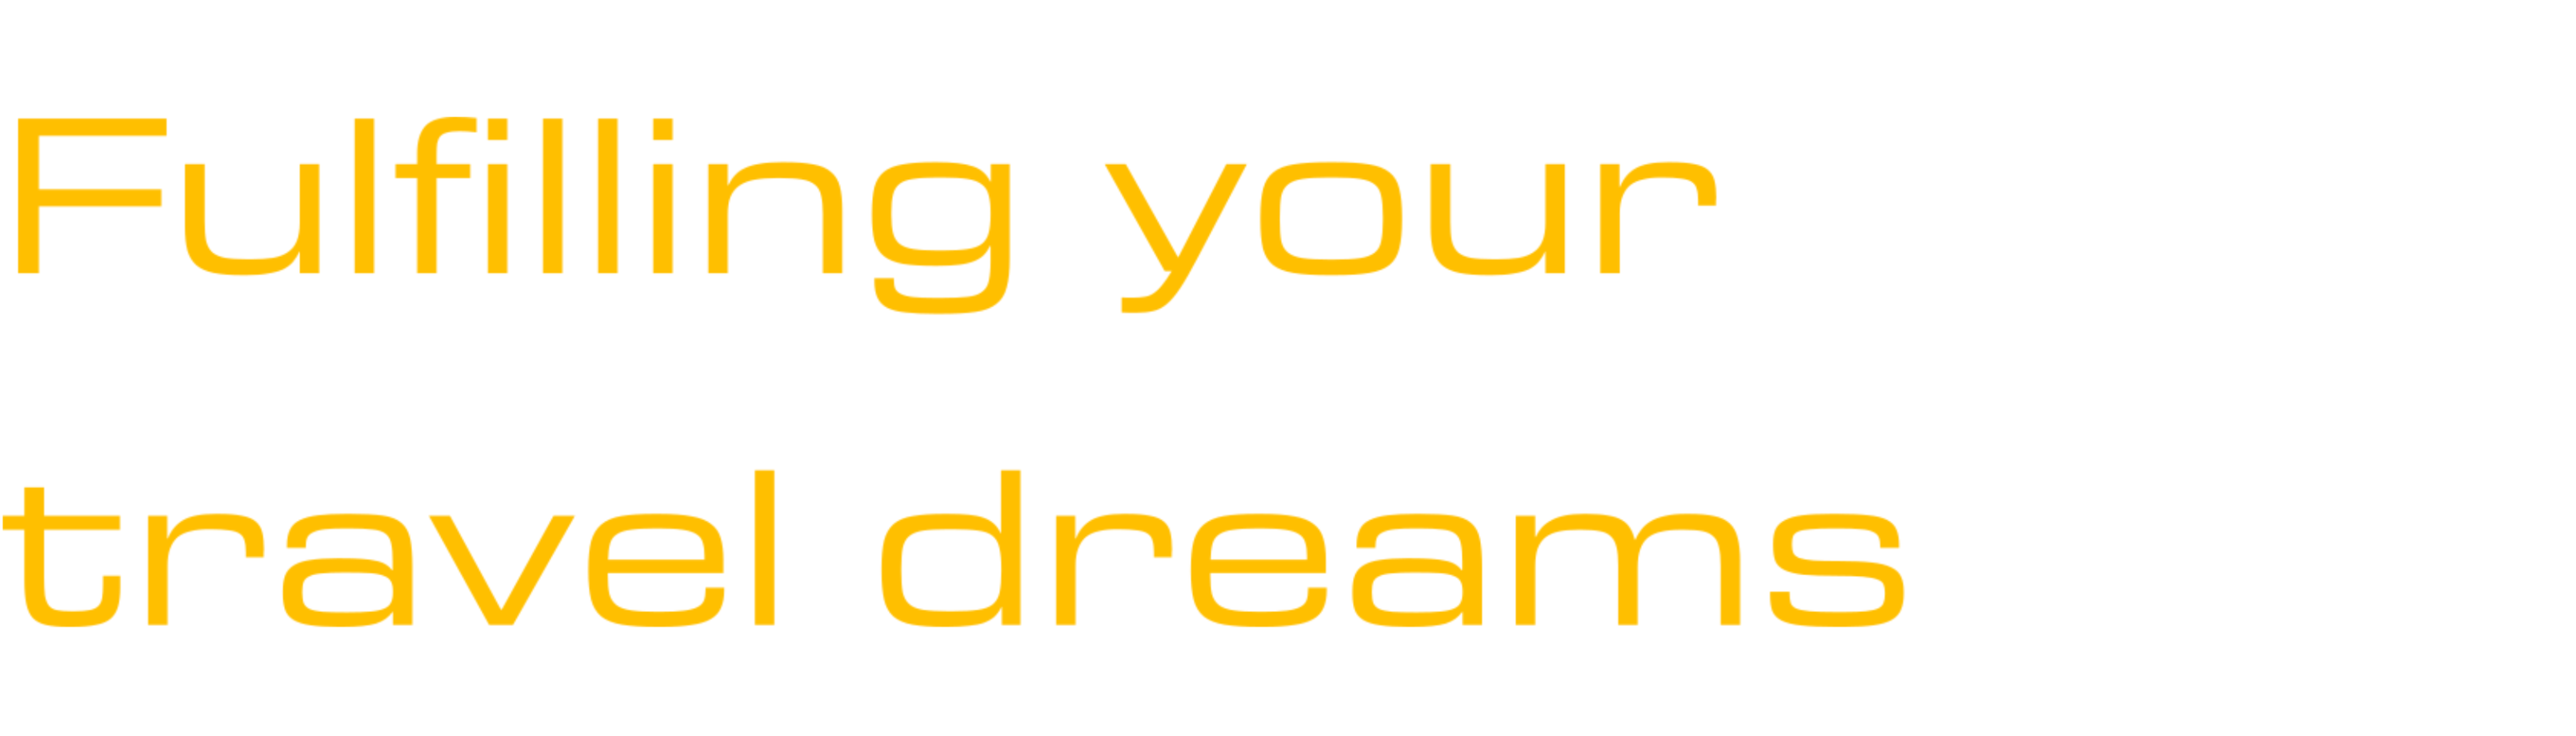
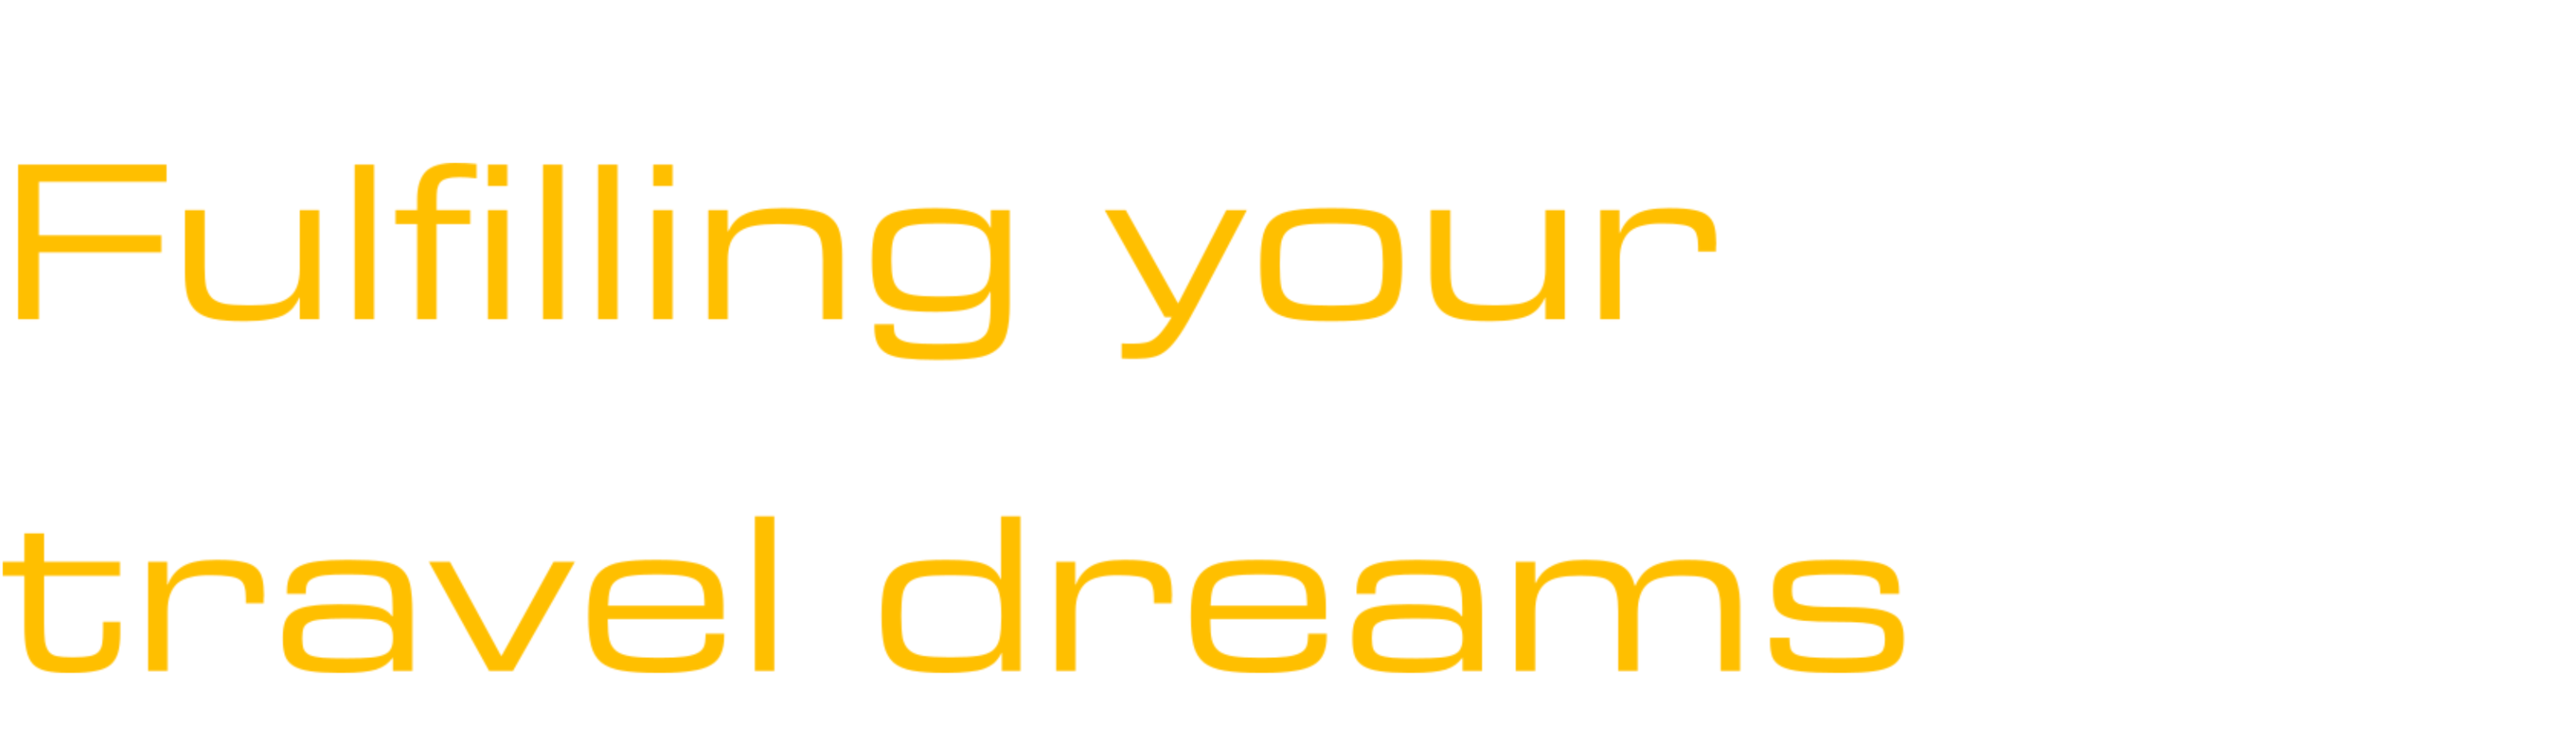
aligned the slogan to bottom and changed color of hero.h2

diff --git a/index.html b/index.html
@@ -36,12 +36,12 @@
     <section id="hero">
         <div class="transparent">
             <div class="container hero-cont">
-                <div class="row d-flex hero-cont text-left align-items-center justify-content-center">
+                <div class="row d-flex hero-cont text-left align-items-end justify-content-center">
                     <!--<video class="d-flex-inline" playsinline autoplay muted loop poster="placeholder.jpg" id="bgvideo" width="x" height="y">
 			<source src="assets/hero-vid.mp4" type="video/mp4">
             </video>-->
-                    <div class="col-lg-6 py-5 py-lg-0 order-sm-2 order-2 order-lg-1" data-aos="fade-right"
-                        data-aos-offset="200" data-aos-delay="400" data-aos-duration="1000"
+                    <div class="col-lg-6 py-5 py-lg-0 order-sm-2 order-2 order-lg-1 slogan-cont"
+                        data-aos="fade-right" data-aos-offset="200" data-aos-delay="400" data-aos-duration="1000"
                         data-aos-easing="ease-in-out">
                         <div>
                             <h2>WELCOME TO TRAVELER'S HUB</h2>
@@ -55,11 +55,11 @@
                         <img src="assets/hero-img.jpg" class="img-fluid" alt="">
                     </div>
                     <!-- <div
-                        class="col-lg-12 order-3 order-lg-2 mt-0 mb-0 justify-content-center text-center align-items-center text-light">
+                        class="col-lg-12 order-3 order-lg-2 mt-0 mb- justify-content-center text-center align-items-center text-light">
                        
                     </div> -->
                     <div
-                        class="col-lg-12 order-3 order-sm-3 order-lg-3 mt-3 justify-content-center text-center align-items-center">
+                        class="col-lg-12 order-3 order-sm-3 order-lg-3 mt-3 mb-3 justify-content-center text-center align-items-center">
                         <a href="#about" class="<!--btn-get-started--> scrollto scroll-text mt-5" data-aos="fade-down"
                             data-aos-offset="100" data-aos-delay="400" data-aos-duration="3000">Scroll down</a>
                         <div class="scrolldown mt-3">
@@ -68,8 +68,6 @@
                                 <span></span></a>
                         </div>
                     </div>
-
-
                 </div>
             </div>
 

diff --git a/css/style.css b/css/style.css
@@ -232,7 +232,7 @@ section {
 
 
 #hero h2 {
-  color:gray;
+  color:white;
   font-size: 22px;
   font-family: ArianLT, 'Avenir Next LT Pro', sans-serif !important;
 }
@@ -327,6 +327,9 @@ section {
   #hero .hero-img img {
     width: 50%;
   }
+  .slogan-cont{
+    width: 70%;
+  }
 }
 
 @media (max-width: 991px) {
@@ -339,7 +342,7 @@ section {
 @media (max-width: 768px) {
   #hero {
     -moz-text-align-last: center;
-    text-align-last: left;
+    text-align-last: center;
   }
   #hero h1 {
     font-size: 28px;
